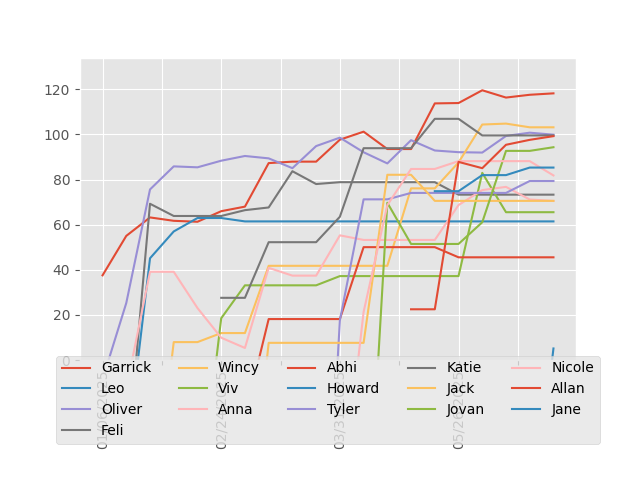
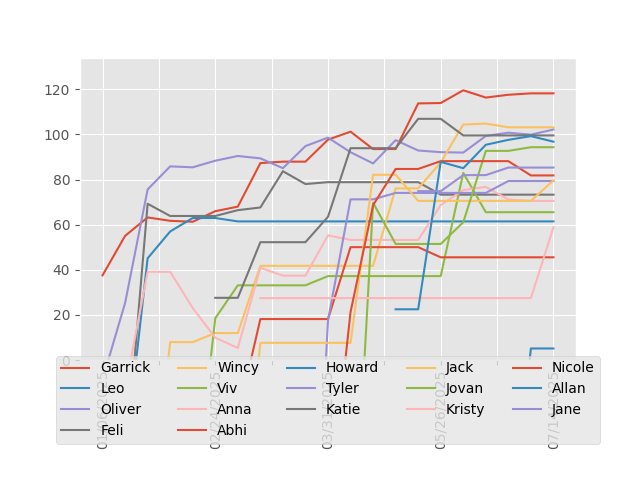
update rankings

diff --git a/parse_results.py b/parse_results.py
@@ -19,6 +19,7 @@ LUCK_FACTORS = {
     "Shifty Eyed Spies": 10.0,
     "Cash n Guns": 10.0,
     "Bang": 1.0,
+    "Carcassone": 10.0,
     "Coup": 10.0,
     "Masquerade": 10.0,
     "Camel Up": 10.0,

diff --git a/README.md b/README.md
@@ -9,22 +9,24 @@
 | Garrick | 118.23 | 34 | 26 | 57% |
 | Rachel | 105.65 | 3 | 2 | 60% |
 | Wincy | 103.18 | 13 | 12 | 52% |
-| Oliver | 99.91 | 33 | 39 | 46% |
+| Oliver | 102.21 | 36 | 41 | 47% |
 | Katie | 99.58 | 12 | 11 | 52% |
-| Allan | 99.26 | 7 | 11 | 39% |
+| Allan | 96.80 | 7 | 12 | 37% |
 | Jovan | 94.35 | 4 | 7 | 36% |
 | Jane | 85.33 | 3 | 7 | 30% |
 | Nicole(Tyler) | 83.97 | 3 | 2 | 60% |
 | Nicole | 81.84 | 9 | 13 | 41% |
+| Jack | 79.64 | 5 | 12 | 29% |
 | Tyler | 79.36 | 6 | 8 | 43% |
 | Feli | 73.31 | 8 | 20 | 29% |
-| Jack | 70.56 | 3 | 10 | 23% |
 | Anna | 70.53 | 16 | 19 | 46% |
 | Serene | 69.04 | 1 | 3 | 25% |
 | Susan | 67.45 | 2 | 4 | 33% |
 | Viv | 65.54 | 9 | 7 | 56% |
 | Leo | 61.46 | 6 | 11 | 35% |
+| Kristy | 58.87 | 1 | 9 | 10% |
 | Peter | 54.52 | 3 | 6 | 33% |
+| Alima | 50.51 | 2 | 5 | 29% |
 | Jacky(Feli) | 47.38 | 3 | 1 | 75% |
 | Vittoria | 47.34 | 3 | 6 | 33% |
 | Abhi | 45.53 | 6 | 10 | 38% |
@@ -33,14 +35,12 @@
 | Narin | 41.65 | 1 | 4 | 20% |
 | Angela(Oliver) | 39.28 | 1 | 1 | 50% |
 | Vivian | 33.61 | 3 | 0 | 100% |
-| Kristy | 27.45 | 0 | 5 | 0% |
 | Kuki | 22.22 | 0 | 5 | 0% |
 | Bonnie | 20.25 | 1 | 2 | 33% |
 | Angelica(Feli) | 14.76 | 1 | 1 | 50% |
 | Simon | 7.96 | 0 | 1 | 0% |
 | Howard | 5.11 | 5 | 5 | 50% |
 | Amy | -14.89 | 1 | 2 | 33% |
-| Alima | -14.89 | 1 | 2 | 33% |
 | Jordan | -24.61 | 2 | 1 | 67% |
 | Karen | -33.11 | 2 | 2 | 50% |
 | Tara | -40.88 | 1 | 3 | 25% |
@@ -199,16 +199,18 @@
 
 | Player | ELO | Wins | Losses | Win % |
 | --- | --- | --- | --- | --- |
-| Oliver | 19.88 | 1 | 3 | 25% |
+| Oliver | 22.44 | 1 | 4 | 20% |
 | Peter | 13.50 | 1 | 0 | 100% |
 | Anna | 13.41 | 1 | 0 | 100% |
+| Jack | 10.81 | 1 | 0 | 100% |
 | Allan | 8.27 | 1 | 1 | 50% |
 | Feli | -5.29 | 0 | 2 | 0% |
+| Kristy | -5.78 | 0 | 2 | 0% |
 | Garrick | -6.23 | 0 | 3 | 0% |
 | Narin | -18.67 | 0 | 2 | 0% |
 | Susan | -24.89 | 0 | 1 | 0% |
 | Katie | -24.89 | 0 | 1 | 0% |
-| Kristy | -24.89 | 0 | 1 | 0% |
+| Alima | -29.25 | 0 | 1 | 0% |
 | Serene | -30.17 | 0 | 1 | 0% |
 | Leo | -30.17 | 0 | 1 | 0% |
 
@@ -300,12 +302,14 @@
 | Katie | 40.25 | 2 | 0 | 100% |
 | Garrick | 20.94 | 1 | 1 | 50% |
 | Tyler | 13.33 | 1 | 0 | 100% |
-| Oliver | -18.69 | 0 | 2 | 0% |
+| Oliver | 7.21 | 1 | 3 | 25% |
+| Jack | -1.33 | 1 | 2 | 33% |
+| Kristy | -8.16 | 1 | 1 | 50% |
+| Alima | -10.46 | 1 | 1 | 50% |
 | Kuki | -32.11 | 0 | 1 | 0% |
 | Nicole | -32.11 | 0 | 1 | 0% |
 | Abhi | -32.11 | 0 | 1 | 0% |
 | Jane | -43.21 | 0 | 1 | 0% |
-| Jack | -43.21 | 0 | 1 | 0% |
 
 
 ### Santorini
@@ -334,3 +338,22 @@
 | Viv | -109.93 | 1 | 2 | 33% |
 | Wincy | -112.64 | 1 | 2 | 33% |
 | Narin | -143.74 | 0 | 2 | 0% |
+
+
+### Carcassone
+
+| Player | ELO | Wins | Losses | Win % |
+| --- | --- | --- | --- | --- |
+| Oliver | -4.27 | 1 | 0 | 100% |
+| Kristy | -72.68 | 0 | 1 | 0% |
+| Allan | -72.68 | 0 | 1 | 0% |
+
+
+### Love Letter
+
+| Player | ELO | Wins | Losses | Win % |
+| --- | --- | --- | --- | --- |
+| Oliver | 4.57 | 1 | 0 | 100% |
+| Kristy | -50.87 | 0 | 1 | 0% |
+| Jack | -50.87 | 0 | 1 | 0% |
+| Alima | -50.87 | 0 | 1 | 0% |
